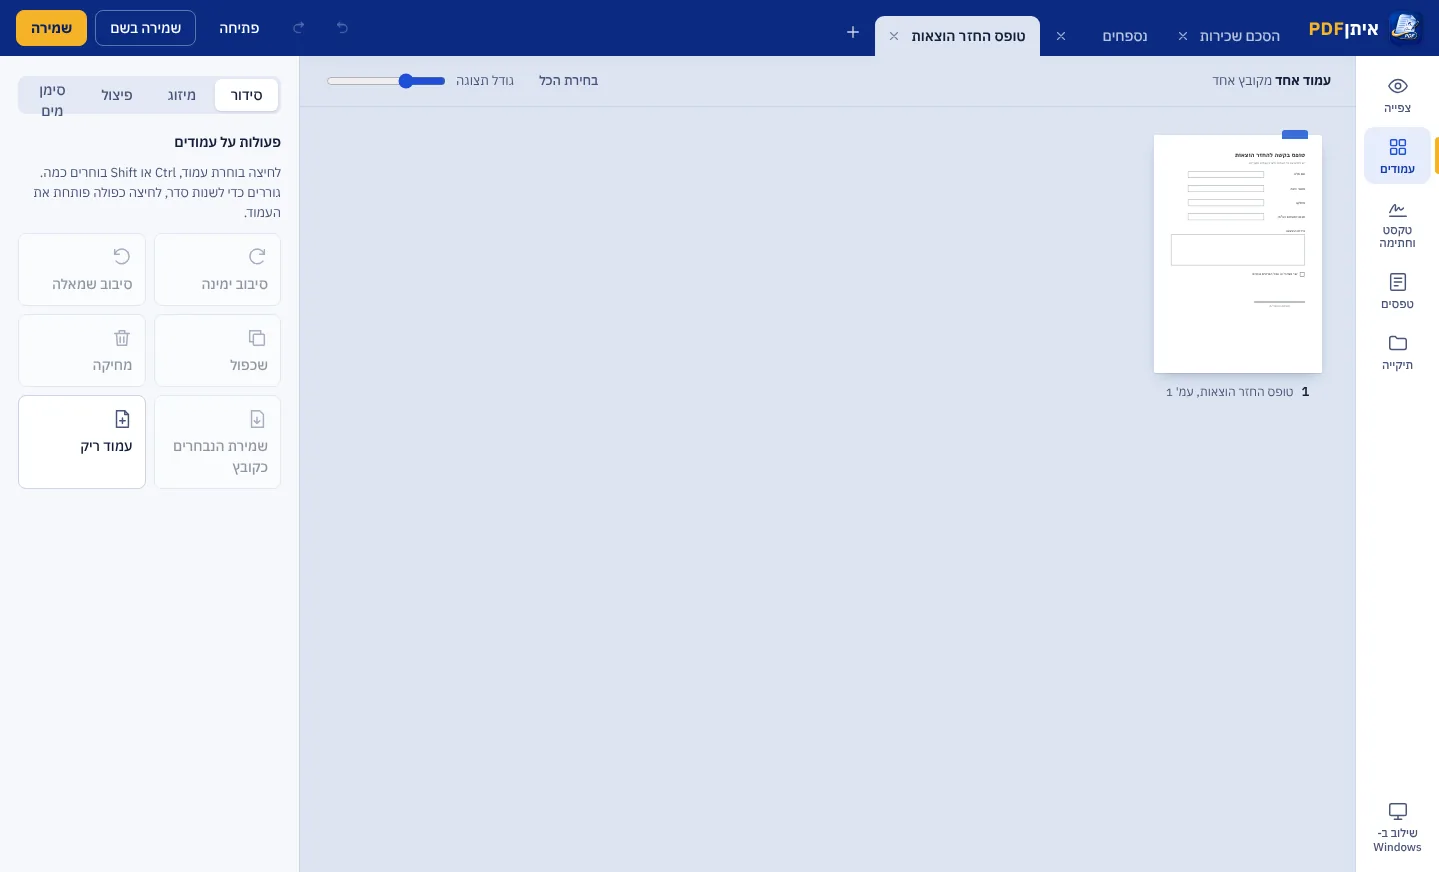
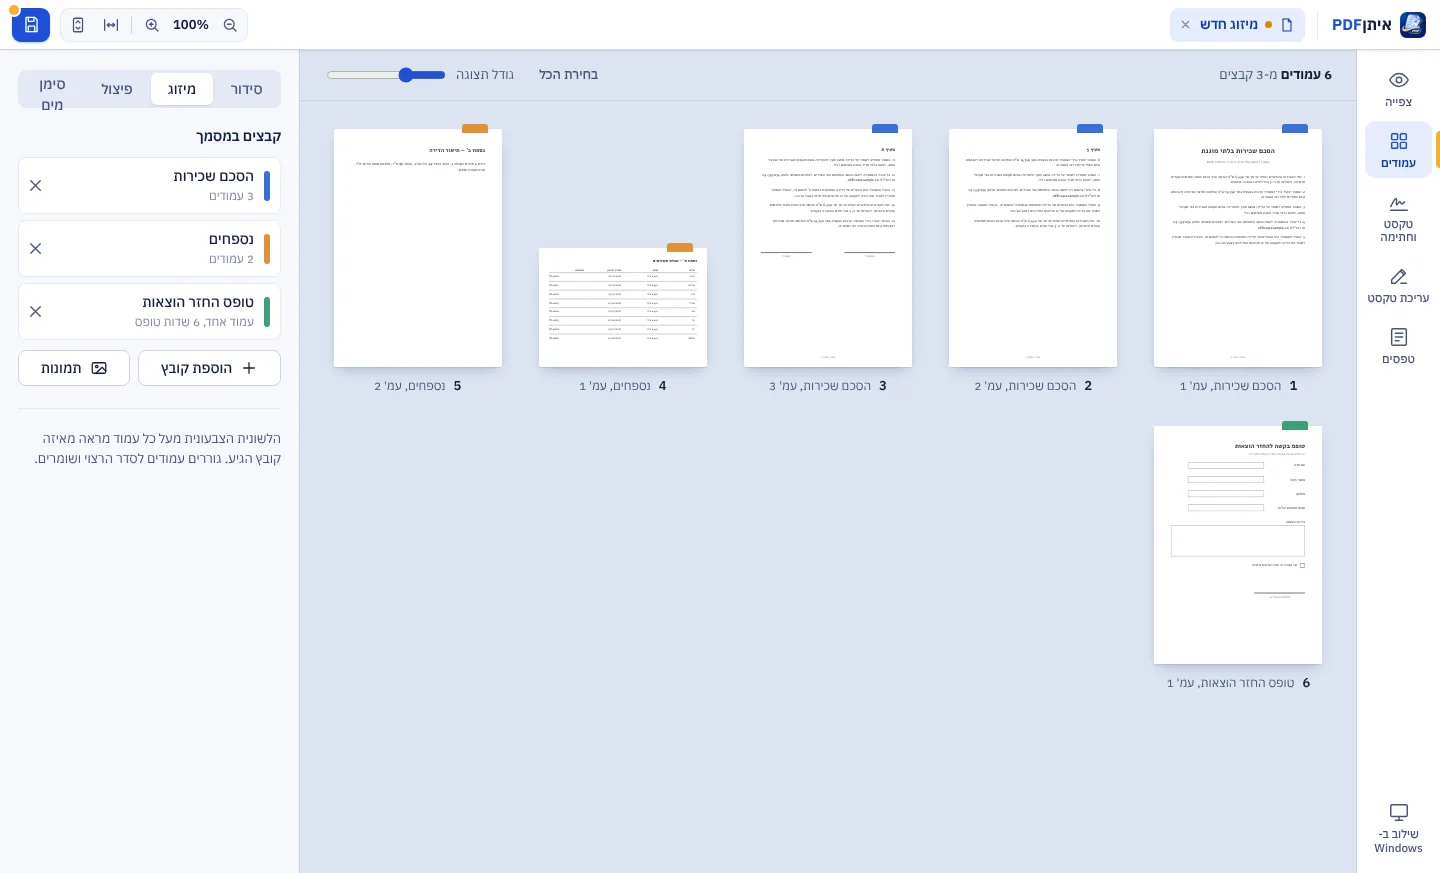
דף הנחיתה: צילומי מסך מהממשק החדש, עריכת טקסט קיים כיכולת, אבטחת מסמכים כ'בפיתוח'
- צילומים חדשים מהתוכנה הנוכחית: טופס ממולא עם סימון V וחתימה, עריכת שורה במכתב, מסך מיזוג של שלושה קבצים.
- כרטיס רחב לעריכת הטקסט שבמסמך, סימון V/X, סימן מים ומספור, ופריסות התצוגה.
- סעיף 'בפיתוח' עכשיו על אבטחה: פתיחת קבצים מוגנים, סיסמה והרשאות בשמירה, חתימה דיגיטלית עם תעודה.
- שתי שאלות חדשות: גבולות עריכת הטקסט, וקבצים מוגנים בסיסמה.

Claude-Session: https://claude.ai/code/session_016vGyVCoMhqAD39WYU8rqKU

diff --git a/site/index.html b/site/index.html
@@ -4,9 +4,9 @@
 <meta charset="utf-8">
 <meta name="viewport" content="width=device-width, initial-scale=1">
 <title>איתןPDF — כל כלי ה-PDF, בעברית מלאה</title>
-<meta name="description" content="איתןPDF: תוכנה חינמית ל-Windows לעבודה עם PDF בעברית. צפייה, חתימה, מילוי טפסים, מיזוג, פיצול והשחרה. עובדת על המחשב, בלי אינטרנט ובלי להעלות קבצים.">
+<meta name="description" content="איתןPDF: תוכנה חינמית ל-Windows לעבודה עם PDF בעברית. צפייה, עריכת הטקסט שבמסמך, חתימה, מילוי טפסים, מיזוג, פיצול והשחרה. עובדת על המחשב, בלי אינטרנט ובלי להעלות קבצים.">
 <meta property="og:title" content="איתןPDF — כל כלי ה-PDF, בעברית מלאה">
-<meta property="og:description" content="תוכנה חינמית ל-Windows בעברית מלאה: חתימה, טפסים, מיזוג, פיצול והשחרה. על המחשב שלכם.">
+<meta property="og:description" content="תוכנה חינמית ל-Windows בעברית מלאה: עריכת טקסט, חתימה, טפסים, מיזוג, פיצול והשחרה. על המחשב שלכם.">
 <meta property="og:image" content="https://pdf.m-eitan.co.il/og.jpg">
 <meta property="og:type" content="website">
 <meta name="twitter:card" content="summary_large_image">
@@ -107,6 +107,9 @@
   .soon-badge { display: inline-block; background: var(--gold); color: var(--navy-deep); font-weight: 700; font-size: 14px; padding: 4px 14px; border-radius: 20px; white-space: nowrap; }
   .soon-card h2 { margin: 0 0 8px; font-size: clamp(24px, 3vw, 32px); line-height: 1.25; }
   .soon-card p { margin: 0; color: var(--ink-2); }
+  .soon-list { margin: 12px 0 14px; padding: 0 20px 0 0; color: var(--ink-2); }
+  .soon-list li { margin-bottom: 6px; }
+  .soon-list b { color: var(--ink); font-weight: 600; }
   .sheet { background: var(--paper); border-radius: 4px; box-shadow: var(--shadow); padding: 28px 30px 30px; position: relative; }
   .sheet .tag { position: absolute; top: -13px; inset-inline-start: 24px; font-size: 13px; font-weight: 700; padding: 3px 12px; border-radius: 20px; color: #fff; }
   .sheet .line { font-family: 'Alef', 'IBM Plex Sans Hebrew', sans-serif; font-size: 19px; padding: 9px 0; border-bottom: 1px solid #EEF1F7; }
@@ -126,6 +129,8 @@
   .feat.wide .ic { background: rgba(255,255,255,.1); }
   .feat.wide .ic svg { stroke: var(--gold); }
   .feat.wide img { width: 100%; height: auto; border-radius: 10px; box-shadow: 0 20px 40px -18px rgba(0,0,0,.6); }
+  .feat.wide p + p { margin-top: 10px; }
+  .feat.wide.flip img { order: -1; }
 
   /* ---------- התקנה ---------- */
   .steps { counter-reset: s; display: grid; gap: 22px; max-width: 900px; margin: 0 auto; list-style: none; padding: 0; }
@@ -246,7 +251,7 @@
   <section class="hero" aria-labelledby="h1">
     <div class="wrap hero-grid">
       <h1 id="h1">כל כלי ה-PDF, בעברית מלאה</h1>
-      <p class="lead">צפייה, חתימה, מילוי טפסים, מיזוג, פיצול והשחרה, בממשק עברי מלא. תוכנה חינמית ל-Windows שעובדת על המחשב שלכם, בלי להעלות קבצים לשום מקום.</p>
+      <p class="lead">צפייה, עריכת הטקסט שבמסמך, חתימה, מילוי טפסים, מיזוג, פיצול והשחרה, בממשק עברי מלא. תוכנה חינמית ל-Windows שעובדת על המחשב שלכם, בלי להעלות קבצים לשום מקום.</p>
       <div class="cta-row">
         <a class="btn btn-gold" href="/download" data-dl>
           <svg viewBox="0 0 24 24" aria-hidden="true"><path d="M12 4v11M7 10l5 5 5-5M5 20h14"/></svg>
@@ -260,7 +265,7 @@
         <li><svg viewBox="0 0 24 24" aria-hidden="true"><path d="m5 12 4.5 4.5L19 7"/></svg>חינם, בלי פרסומות ובלי הרשמה</li>
         <li><svg viewBox="0 0 24 24" aria-hidden="true"><path d="m5 12 4.5 4.5L19 7"/></svg>קוד פתוח</li>
       </ul>
-      <div class="shot"><img src="shot-sign.webp" alt="חלון התוכנה: טופס בקשה להחזר הוצאות ממולא בעברית, עם כלי חתימה וטקסט בצד" width="1440" height="872"></div>
+      <div class="shot"><img src="shot-sign.webp" alt="חלון התוכנה: טופס בקשה להחזר הוצאות ממולא בעברית, עם סימון V בתיבה, חתימה והערה באדום, ולוח הכלים של טקסט וחתימה בצד" width="1440" height="873"></div>
     </div>
   </section>
 
@@ -290,9 +295,18 @@
     <div class="wrap">
       <div class="sec-head">
         <h2 id="h-feat">מה אפשר לעשות</h2>
-        <p>כל קובץ נפתח בלשונית משלו. שומרים ישירות לקובץ, או בשם חדש.</p>
+        <p>כל קובץ נפתח בלשונית משלו. קוראים בעמוד יחיד, בגלילה רציפה או שני עמודים זה לצד זה, ושומרים ישירות לקובץ או בשם חדש.</p>
       </div>
       <div class="grid">
+        <article class="feat wide flip">
+          <div>
+            <div class="ic"><svg viewBox="0 0 24 24" aria-hidden="true"><path d="M4 20h4L19 9l-4-4L4 16z"/><path d="m13.5 6.5 4 4"/></svg></div>
+            <h3>עריכת הטקסט שכבר במסמך</h3>
+            <p>לוחצים על שורה בעמוד ומתקנים אותה במקום: סכום, תאריך, שם או משפט שלם. השורה הישנה נמחקת מהקובץ, לא רק מוסתרת, והחדשה נכתבת בעברית תקינה באותו מקום, באותו גודל ובאותו צבע.</p>
+            <p>אפשר גם לשנות גודל, הדגשה, יישור וצבע, למחוק שורה, ולראות בצד רשימה של כל השינויים עם החזרה למקור בלחיצה.</p>
+          </div>
+          <img src="shot-edit.webp" alt="עריכת טקסט: שורת הנדון במכתב פתוחה לעריכה עם סכום מעודכן, ובצד לוח עם פונט, גודל, יישור, צבע ורשימת השינויים במסמך" width="1440" height="600" loading="lazy">
+        </article>
         <article class="feat">
           <div class="ic"><svg viewBox="0 0 24 24" aria-hidden="true"><path d="M3 17c3-6 5-9 6-8.7 1.2.3-.8 6.6.4 6.8 1 .2 2.6-3.8 3.6-3.6.8.2.3 2.4 2 2.6 1 .1 2-1 3-2"/><path d="M3 21h18"/></svg></div>
           <h3>חתימה</h3>
@@ -305,13 +319,13 @@
         </article>
         <article class="feat">
           <div class="ic"><svg viewBox="0 0 24 24" aria-hidden="true"><path d="M5 6V4h14v2M12 4v16M9 20h6"/></svg></div>
-          <h3>טקסט, תאריך וחותמת</h3>
-          <p>מוסיפים טקסט בכל מקום בדף, בגודל ובצבע שבוחרים. תאריך בלחיצה, וחותמת מתמונה.</p>
+          <h3>טקסט, תאריך, סימון וחותמת</h3>
+          <p>מוסיפים טקסט בכל מקום בדף, בגודל ובצבע שבוחרים. תאריך בלחיצה, סימון V או X בתיבות, וחותמת מתמונה.</p>
         </article>
         <article class="feat">
           <div class="ic"><svg viewBox="0 0 24 24" aria-hidden="true"><path d="M5 3h6l3 3v8H5z"/><path d="M10 10h6l3 3v8h-9z"/></svg></div>
           <h3>מיזוג וסידור</h3>
-          <p>מאחדים כמה קבצים לאחד, גוררים עמודים לסדר הרצוי, מסובבים, משכפלים ומוחקים.</p>
+          <p>מאחדים כמה קבצים לאחד, גוררים עמודים לסדר הרצוי, מסובבים, משכפלים ומוחקים. וגם סימן מים ומספור עמודים בעברית.</p>
         </article>
         <article class="feat">
           <div class="ic"><svg viewBox="0 0 24 24" aria-hidden="true"><circle cx="6" cy="6" r="3"/><circle cx="6" cy="18" r="3"/><path d="M8.1 8.1 20 20M8.1 15.9 20 4"/></svg></div>
@@ -329,7 +343,7 @@
             <h3>משתלבת ב-Windows</h3>
             <p>קליק ימני על קבצי PDF בסייר: פתיחה, מיזוג או פיצול בלי לפתוח את התוכנה קודם. וגם תמונה ממוזערת של העמוד הראשון בסייר, במקום אייקון. כל אלה מופעלים בלחיצה אחת מתוך התוכנה, ואפשר לכבות אותם באותה דרך.</p>
           </div>
-          <img src="shot-pages.webp" alt="מסך העמודים: שלושה קבצים ממוזגים, כל עמוד מסומן בלשונית בצבע הקובץ שלו" width="1440" height="872" loading="lazy">
+          <img src="shot-pages.webp" alt="מסך המיזוג: שלושה קבצים ממוזגים לשישה עמודים, כל עמוד מסומן בלשונית בצבע הקובץ שלו" width="1440" height="873" loading="lazy">
         </article>
       </div>
     </div>
@@ -340,8 +354,14 @@
       <div class="soon-card">
         <span class="soon-badge">בפיתוח</span>
         <div>
-          <h2 id="h-soon">הצעד הבא: עריכת הטקסט שכבר במסמך</h2>
-          <p>היום מוסיפים טקסט, חתימות ושדות על גבי המסמך. בגרסה הבאה אפשר יהיה לתקן גם את הטקסט המקורי עצמו, מילה או שורה, בלי לשבור את העברית סביבו. ההתקנה של גרסה חדשה מעדכנת את הקיימת, כך שזה יגיע אליכם בהורדה אחת.</p>
+          <h2 id="h-soon">הצעד הבא: אבטחת מסמכים</h2>
+          <p>אנחנו עובדים עכשיו על הגנה למסמכים, שתגיע בגרסה הבאה:</p>
+          <ul class="soon-list">
+            <li><b>קבצים מוגנים בסיסמה:</b> פותחים אותם ישירות בתוכנה, ואפשר לשמור עותק בלי הסיסמה.</li>
+            <li><b>הגנה בסיסמה בשמירה:</b> סיסמה לפתיחת הקובץ, ובחירה מה מותר למי שמקבל אותו: הדפסה, העתקה או עריכה.</li>
+            <li><b>חתימה דיגיטלית עם תעודה:</b> חתימה שמוכיחה מי חתם ושהמסמך לא שונה אחרי החתימה. קודם עם קובץ תעודה, ובהמשך גם עם כרטיס חכם.</li>
+          </ul>
+          <p>ההתקנה של גרסה חדשה מעדכנת את הקיימת, כך שזה יגיע אליכם בהורדה אחת.</p>
         </div>
       </div>
     </div>
@@ -424,6 +444,14 @@
         <details>
           <summary>האם ההשחרה באמת מוחקת?</summary>
           <p>כן. עמוד עם השחרה נשמר מחדש כתמונה, והמלבנים השחורים צרובים בה. הטקסט המקורי של אותו עמוד לא נשאר בקובץ בשום צורה, גם לא מוסתר. החיסרון: טקסט אחר באותו עמוד כבר לא ניתן לבחירה או לחיפוש. שאר העמודים לא משתנים.</p>
+        </details>
+        <details>
+          <summary>אפשר לערוך כל מסמך?</summary>
+          <p>כל מסמך שיש בו טקסט אמיתי, למשל קובץ שנשמר מ-Word או מתוכנה אחרת. עורכים שורה אחת בכל פעם: אם השורה החדשה ארוכה מהמקורית, הפסקה סביבה לא מסתדרת מחדש. השורה נכתבת מחדש בגופן IBM Plex או Alef. במסמך סרוק כל עמוד הוא תמונה ואין בו טקסט לערוך, ואז מכסים בכיסוי לבן וכותבים מעל עם כלי הטקסט.</p>
+        </details>
+        <details>
+          <summary>מה עם קבצים מוגנים בסיסמה?</summary>
+          <p>בגרסה הנוכחית צריך להסיר את הסיסמה בתוכנה אחרת לפני שפותחים. פתיחה של קבצים מוגנים, הוספת סיסמה בשמירה וחתימה דיגיטלית עם תעודה נמצאות בפיתוח ויגיעו בגרסה הבאה.</p>
         </details>
         <details>
           <summary>זה עולה כסף? יש מגבלות?</summary>
